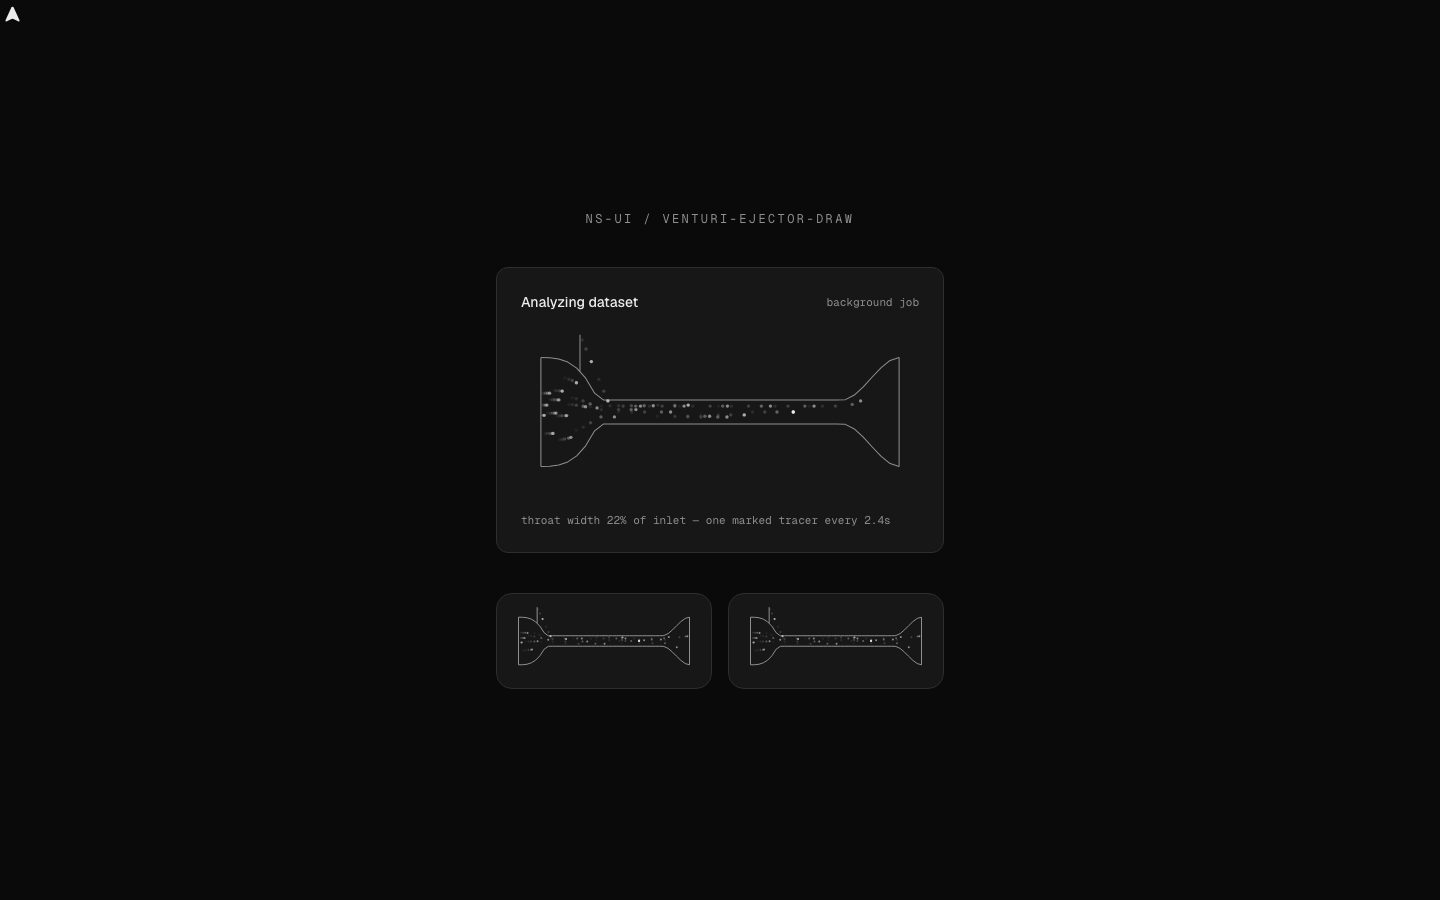
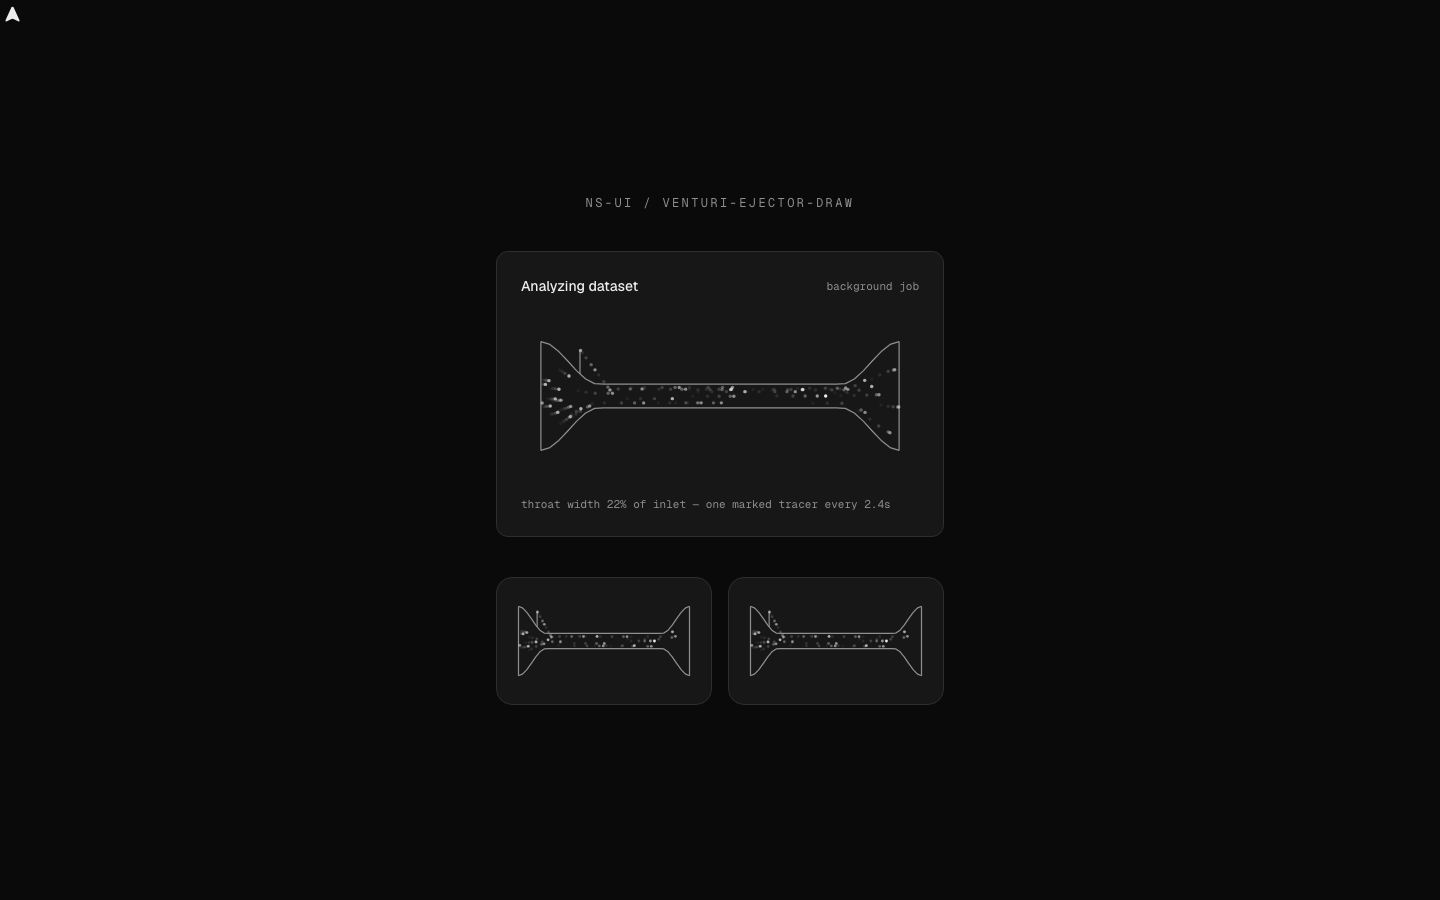
fix(registry): venturi-ejector-draw — tracer accelerates through the throat
Its own legibility requirement was inverted: the marked tracer decelerated
at the throat, which is the opposite of what a venturi does. Fixed by
solving cone/throat/diffuser speed continuity at both seams, plus a warm
start so t0 is not a bare outline.

Claude-Session: https://claude.ai/code/session_01REfwHs6W1mECvo3q6PFVMv

diff --git a/registry/core/venturi-ejector-draw/component.tsx b/registry/core/venturi-ejector-draw/component.tsx
@@ -147,8 +147,11 @@ function computeGeom(w: number, h: number): Geom {
   const diffStartX = throatX + throatZoneHalf;
   const sidePortX = coneEndX - ductLen * 0.05;
   const sideT = clamp01((sidePortX - ductLeft) / Math.max(1, coneEndX - ductLeft));
-  const sideWallHalf = lerp(inletHalf, throatHalf, sideT ** 3);
-  const sidePortY = centerY - sideWallHalf * 1.9;
+  // Must match widthHalfAt's cone easing (smoothstep, not the old cubic) so
+  // this anchor and drawOutline's wallY agree — otherwise the "stub" stretches
+  // from wherever this landed down to the actual wall, sometimes off-canvas.
+  const sideWallHalf = lerp(inletHalf, throatHalf, smoothstep(sideT));
+  const sidePortY = centerY - sideWallHalf - inletHalf * 0.45;
   const mergeX = throatX - throatZoneHalf * 0.9;
   const cell = min / 40;
   return {
